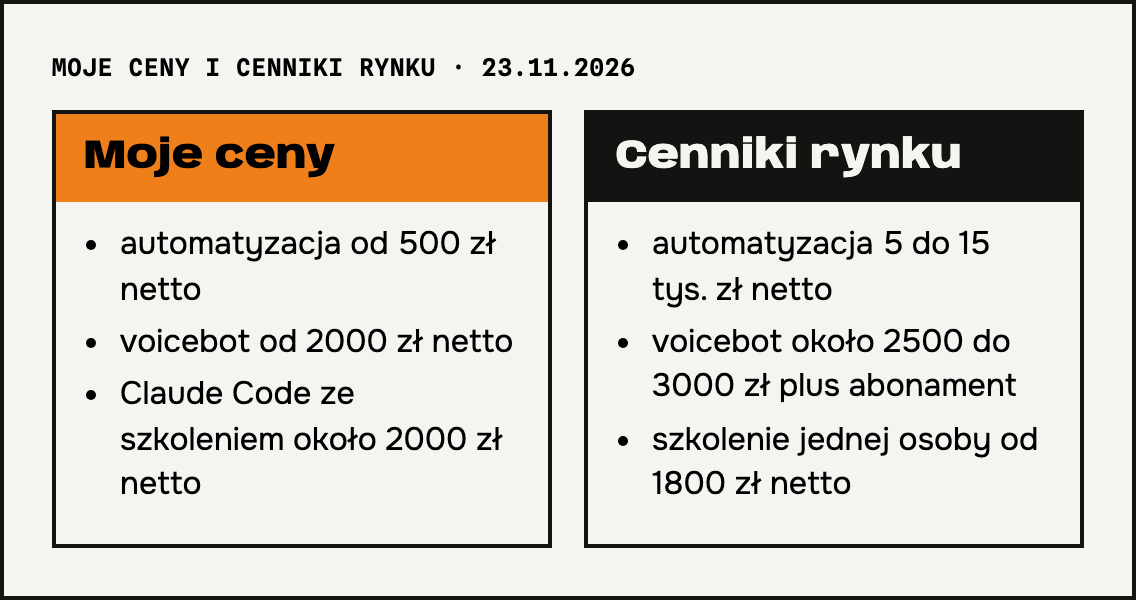
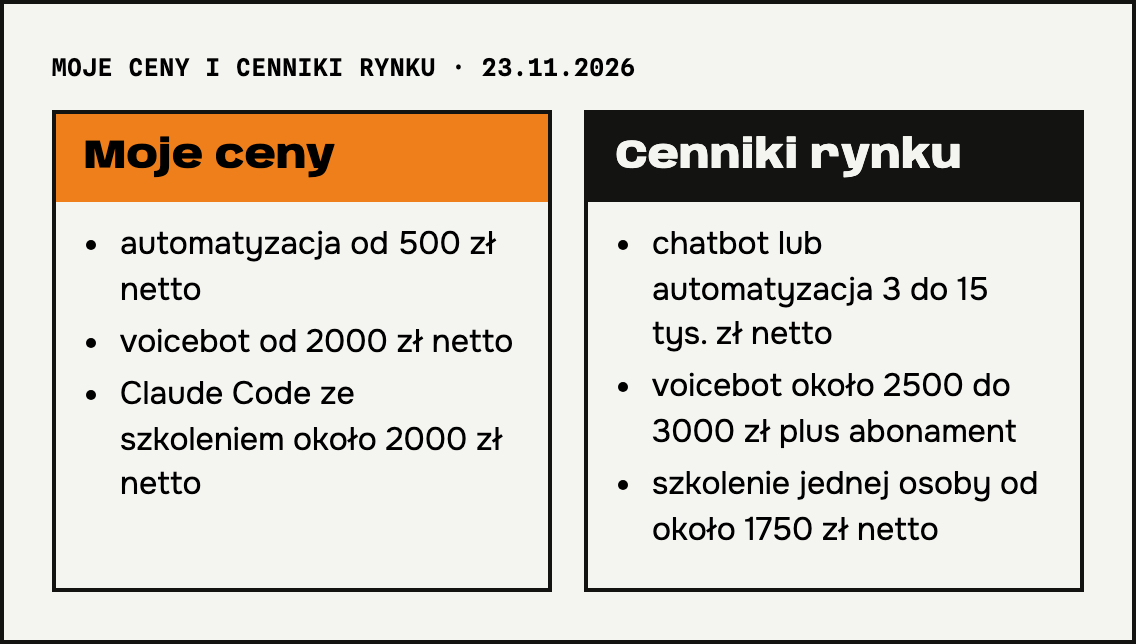
fix: poprawki po przeglądzie kodu (ceny rynku, fakty o kosztach, FAQ wizytówki)

diff --git a/docs/blog-szkice/podglad/koszt-wdrozenia-ai-en.html b/docs/blog-szkice/podglad/koszt-wdrozenia-ai-en.html
@@ -36,7 +36,7 @@
 
 <figure class="graf" id="g2"><div class="et">My prices and market price lists · Nov. 23, 2026</div>
 <div class="kol"><section class="tak"><h3>My prices</h3><ul><li>automation from PLN 500 plus VAT</li><li>voice agent from PLN 2,000 plus VAT</li><li>Claude Code with training about PLN 2,000 plus VAT</li></ul></section>
-<section class="nie"><h3>Market price lists</h3><ul><li>automation PLN 5 to 15 thousand plus VAT</li><li>voice agent about PLN 2,500 to 3,000 plus a subscription</li><li>training for one person from PLN 1,800 plus VAT</li></ul></section></div></figure>
+<section class="nie"><h3>Market price lists</h3><ul><li>chatbot or automation PLN 3 to 15 thousand plus VAT</li><li>voice agent about PLN 2,500 to 3,000 plus a subscription</li><li>training for one person from about PLN 1,750 plus VAT</li></ul></section></div></figure>
 
 <svg id="mini" class="mini" xmlns="http://www.w3.org/2000/svg" viewBox="0 0 480 270"><rect width="480" height="270" fill="#EF7F1A"/>
 <text x="28" y="44" font-family="Spline Sans Mono" font-weight="600" font-size="14" fill="#131412">AI IMPLEMENTATION COST</text>

diff --git a/testy/jednostkowe/uslugi.test.ts b/testy/jednostkowe/uslugi.test.ts
@@ -5,7 +5,7 @@ import { uslugi, ustawienia } from '../../src/lib/schematy';
 import { rozdziel } from '../../src/lib/frontmatter';
 import { zbudujPary, wczytajFiksture } from '../../src/lib/tresc';
 import { adresOdpowiednika } from '../../src/lib/jezyki';
-import { adresUslugi, bezPogrubienia, czesciPogrubienia, ulozUslugi } from '../../src/lib/uslugi';
+import { adresUslugi, czesciPogrubienia, ulozUslugi } from '../../src/lib/uslugi';
 
 const F = join(import.meta.dirname, '../fikstury/jezyki');
 const dane = (sciezka: string) => rozdziel(readFileSync(join(F, sciezka), 'utf8')).dane as Record<string, any>;
@@ -72,10 +72,6 @@ describe('pogrubienie **…** w polach usługi', () => {
       { tekst: ' i opisz', pogrubione: false },
     ]);
     expect(czesciPogrubienia('bez pogrubienia')).toEqual([{ tekst: 'bez pogrubienia', pogrubione: false }]);
-  });
-  it('usuwa gwiazdki do meta, JSON-LD i kart', () => {
-    expect(bezPogrubienia('**Wdrożenie AI w firmie** zaczynam od procesu')).toBe('Wdrożenie AI w firmie zaczynam od procesu');
-    expect(bezPogrubienia('a * b')).toBe('a * b');
   });
 });
 

diff --git a/docs/blog-szkice/podglad/koszt-wdrozenia-ai.html b/docs/blog-szkice/podglad/koszt-wdrozenia-ai.html
@@ -36,7 +36,7 @@
 
 <figure class="graf" id="g2"><div class="et">Moje ceny i cenniki rynku · 23.11.2026</div>
 <div class="kol"><section class="tak"><h3>Moje ceny</h3><ul><li>automatyzacja od 500 zł netto</li><li>voicebot od 2000 zł netto</li><li>Claude Code ze szkoleniem około 2000 zł netto</li></ul></section>
-<section class="nie"><h3>Cenniki rynku</h3><ul><li>automatyzacja 5 do 15 tys. zł netto</li><li>voicebot około 2500 do 3000 zł plus abonament</li><li>szkolenie jednej osoby od 1800 zł netto</li></ul></section></div></figure>
+<section class="nie"><h3>Cenniki rynku</h3><ul><li>chatbot lub automatyzacja 3 do 15 tys. zł netto</li><li>voicebot około 2500 do 3000 zł plus abonament</li><li>szkolenie jednej osoby od około 1750 zł netto</li></ul></section></div></figure>
 
 <svg id="mini" class="mini" xmlns="http://www.w3.org/2000/svg" viewBox="0 0 480 270"><rect width="480" height="270" fill="#EF7F1A"/>
 <text x="28" y="44" font-family="Spline Sans Mono" font-weight="600" font-size="14" fill="#131412">KOSZT WDROŻENIA AI</text>

diff --git a/src/lib/uslugi.ts b/src/lib/uslugi.ts
@@ -6,9 +6,6 @@ export function czesciPogrubienia(t: string): { tekst: string; pogrubione: boole
   return t.split(/\*\*(.+?)\*\*/).map((tekst, i) => ({ tekst, pogrubione: i % 2 === 1 })).filter((c) => c.tekst !== '');
 }
 
-/** Tekst bez `**` do meta, JSON-LD i kart. */
-export const bezPogrubienia = (t: string) => t.replace(/\*\*(.+?)\*\*/g, '$1');
-
 /** Początek adresu stron usług w danym języku. */
 export const prefiksUslug = (jezyk: Jezyk) => (jezyk === 'pl' ? '/uslugi/' : '/en/services/');
 

diff --git a/src/lib/wpisy.ts b/src/lib/wpisy.ts
@@ -17,7 +17,7 @@ const OBRAZY: Obrazy = import.meta.env.OBRAZY_Z_FIKSTUR
 
 export async function obraz(plik: string, wpis: string) {
   const wczytaj = OBRAZY[plik];
-  if (!wczytaj) throw new Error(`Wpis ${wpis}: nie znaleziono zdjęcia ${plik}. Sprawdź pole plik w zdjęciach albo w miniaturze.`);
+  if (!wczytaj) throw new Error(`Strona ${wpis}: nie znaleziono zdjęcia ${plik}. Sprawdź pole plik w zdjęciach albo w miniaturze.`);
   return (await wczytaj()).default;
 }
 

diff --git a/src/content/wpisy/ile-kosztuje-wdrozenie-ai/en.md b/src/content/wpisy/ile-kosztuje-wdrozenie-ai/en.md
@@ -1,12 +1,12 @@
 ---
 tytul: "AI implementation cost for small business"
 data: 2026-11-23
-zajawka: "AI implementation cost: a simple automation from PLN 500 plus VAT, a voice agent from PLN 2,000. See what raises the price and what you pay monthly."
+zajawka: "AI implementation cost: a simple automation from PLN 500 plus VAT, a voice agent from PLN 2,000 plus VAT. See what raises the price and monthly costs."
 miniatura:
   plik: "/src/assets/wpisy/ile-kosztuje-wdrozenie-ai-en-miniatura.png"
-  alt: "From PLN 500 plus VAT for a simple automation and a voice agent from PLN 2,000 on an orange background"
+  alt: "From PLN 500 plus VAT for a simple automation and a voice agent from PLN 2,000 plus VAT on an orange background"
 tlumaczenie: ai
-zrodlo: 74dbecf320ac7d9764081902b32303e2d3085b8fe3ecfb66be9575e26cc3903a
+zrodlo: d849cd1e7050b7ce67fb98ca0f822cdcdd20062574d14fb95cacabb181138097
 adresEn: "ai-implementation-cost"
 ---
 **How much AI implementation costs** is the question I hear from small business owners before we even talk about their process. I answer with numbers from my own projects: a simple automation starts at PLN 500 plus VAT, and a voice agent starts at PLN 2,000 plus VAT. See what the price depends on and which costs remain after launch, then email me about what you want to automate.
@@ -33,7 +33,7 @@ Before I pick a tool, I check how the work looks today. Often it's enough to lay
 
 ## Costs that remain after launch
 
-Some tools cost money every month, and those fees go to the client's accounts, not mine. For a voice agent, that's about USD 20 a month for ElevenLabs, depending on the number of calls. The client tops up the phone number account themselves when they get a low-balance notification. I write more about the bot itself on the [AI voice agents](/en/services/ai-voice-agents/) page.
+Some tools cost money every month. For a voice agent, that's about USD 20 a month for ElevenLabs, depending on the number of calls, and ElevenLabs and Twilio run on the client's accounts, not mine. The client tops up the phone number account themselves when they get a low-balance notification. I write more about the bot itself on the [AI voice agents](/en/services/ai-voice-agents/) page.
 
 I run complex automations that have to work all the time in n8n on a self-hosted server. It comes out cheaper than a Make subscription, where you pay for every operation in a scenario.
 
@@ -43,7 +43,7 @@ I run complex automations that have to work all the time in n8n on a self-hosted
 
 ## My prices compared with the market
 
-On Nov. 23, 2026, I checked the price lists that Google shows in AI answers to questions about cost. Implementation firms usually list a single automation at PLN 5 to 15 thousand plus VAT, and AI implementation with integrations from PLN 8,000 up. For a voice agent, starter packages cost about PLN 2,500 to 3,000 for setup, plus PLN 299 to 1,500 a month for maintenance. Claude Code training for one person starts at PLN 1,800 plus VAT in these price lists.
+On Nov. 23, 2026, I checked the price lists that Google shows in AI answers to questions about cost. Implementation firms usually list a simple chatbot or a single automation at PLN 3 to 15 thousand plus VAT, and AI implementation with integrations from PLN 8,000 up. For a voice agent, starter packages cost about PLN 2,500 to 3,000 for setup, plus PLN 299 to 1,500 a month for maintenance. Claude Code training for one person starts at about PLN 1,750 plus VAT in these price lists.
 
 Compare the scope, not just the amount. I give the price of the simplest version, and I quote a larger project separately, after we talk about your process and the software you use.
 
@@ -59,7 +59,7 @@ Net. VAT is added to every amount in this post.
 A simple automation runs after about 3 days. A voice agent goes through its first tests at the client's company after 2 weeks.
 
 ### Do I pay every month after implementation?
-It depends on the tool. For a voice agent, you pay about USD 20 for ElevenLabs plus phone number top-ups, and n8n on a self-hosted server costs as much as that server.
+It depends on the tool. For a voice agent, you pay about USD 20 for ElevenLabs plus phone number top-ups. Complex automations in self-hosted n8n come out cheaper than a Make subscription.
 
 ### How much does Claude Code training cost?
 About PLN 2,000 plus VAT, together with setup at the client's company. I set up the tool and train the team to work with it.

diff --git a/src/content/wpisy/ile-kosztuje-wdrozenie-ai/pl.md b/src/content/wpisy/ile-kosztuje-wdrozenie-ai/pl.md
@@ -4,7 +4,7 @@ data: 2026-11-23
 zajawka: "Ile kosztuje wdrożenie AI: prosta automatyzacja od 500 zł netto, voicebot od 2000 zł netto. Sprawdź, co podnosi cenę i co płacisz co miesiąc."
 miniatura:
   plik: "/src/assets/wpisy/ile-kosztuje-wdrozenie-ai-miniatura.png"
-  alt: "Napis od 500 zł netto za prostą automatyzację i voicebot od 2000 zł na pomarańczowym tle"
+  alt: "Napis od 500 zł netto za prostą automatyzację i voicebot od 2000 zł netto na pomarańczowym tle"
 ---
 **Ile kosztuje wdrożenie AI** to pytanie, które słyszę od właścicieli małych firm jeszcze przed pierwszą rozmową o procesie. Odpowiadam kwotami z moich wdrożeń: prosta automatyzacja zaczyna się od 500 zł netto, a voicebot od 2000 zł netto. Sprawdź, od czego zależy cena i jakie koszty zostają po uruchomieniu, a potem napisz do mnie, co chcesz zautomatyzować.
 
@@ -30,7 +30,7 @@ Zanim dobiorę narzędzie, sprawdzam, jak praca wygląda dziś. Często wystarcz
 
 ## Koszty, które zostają po uruchomieniu
 
-Część narzędzi kosztuje co miesiąc, a te opłaty idą na konta klienta, nie na moje. Przy voicebocie to około 20 dolarów miesięcznie za ElevenLabs, zależnie od liczby rozmów. Konto z numerem telefonu klient doładowuje sam, gdy dostanie powiadomienie o końcu środków. Więcej o samym bocie piszę na stronie [voiceboty dla firm](/uslugi/voiceboty/).
+Część narzędzi kosztuje co miesiąc. Przy voicebocie to około 20 dolarów miesięcznie za ElevenLabs, zależnie od liczby rozmów, a ElevenLabs i Twilio działają na kontach klienta, nie na moich. Konto z numerem telefonu klient doładowuje sam, gdy dostanie powiadomienie o końcu środków. Więcej o samym bocie piszę na stronie [voiceboty dla firm](/uslugi/voiceboty/).
 
 Rozbudowane automatyzacje, które muszą działać cały czas, stawiam w n8n na własnym serwerze. Wychodzi to taniej niż subskrypcja Make, w której płacisz za każdą operację w scenariuszu.
 
@@ -40,7 +40,7 @@ Rozbudowane automatyzacje, które muszą działać cały czas, stawiam w n8n na 
 
 ## Moje ceny na tle cenników rynku
 
-Sprawdziłem 23 listopada 2026 cenniki, które Google pokazuje w odpowiedziach AI na pytania o koszt. Firmy wdrożeniowe podają za pojedynczą automatyzację zwykle od 5 do 15 tys. zł netto, a za wdrożenie AI z integracjami od 8000 zł wzwyż. Za voicebota pakiety startowe kosztują około 2500 do 3000 zł za wdrożenie, a do tego od 299 do 1500 zł miesięcznie za utrzymanie. Szkolenie z Claude Code dla jednej osoby zaczyna się w cennikach od 1800 zł netto.
+Sprawdziłem 23 listopada 2026 cenniki, które Google pokazuje w odpowiedziach AI na pytania o koszt. Firmy wdrożeniowe podają za prostego chatbota albo pojedynczą automatyzację zwykle od 3 do 15 tys. zł netto, a za wdrożenie AI z integracjami od 8000 zł wzwyż. Za voicebota pakiety startowe kosztują około 2500 do 3000 zł za wdrożenie, a do tego od 299 do 1500 zł miesięcznie za utrzymanie. Szkolenie z Claude Code dla jednej osoby zaczyna się w cennikach od około 1750 zł netto.
 
 Porównuj zakres, a nie samą kwotę. Ja podaję cenę najprostszej wersji, a większy projekt wyceniam osobno, po rozmowie o Twoim procesie i programach, z których korzystasz.
 
@@ -56,7 +56,7 @@ Netto. Do każdej kwoty z tego wpisu dochodzi VAT.
 Prosta automatyzacja działa po około 3 dniach. Voicebot przechodzi pierwsze testy u klienta po 2 tygodniach.
 
 ### Czy po wdrożeniu płacę co miesiąc?
-Zależy od narzędzia. Przy voicebocie płacisz około 20 dolarów za ElevenLabs i doładowania numeru, a n8n na własnym serwerze kosztuje tyle, co ten serwer.
+Zależy od narzędzia. Przy voicebocie płacisz około 20 dolarów za ElevenLabs i doładowania numeru. Rozbudowane automatyzacje w n8n na własnym serwerze wychodzą taniej niż subskrypcja Make.
 
 ### Ile kosztuje szkolenie z Claude Code?
 Około 2000 zł netto razem z wdrożeniem u klienta. Wdrażam narzędzie i szkolę zespół z pracy z nim.

diff --git a/CHANGELOG.md b/CHANGELOG.md
@@ -1,3 +1,11 @@
+## 2026-11-23 19:20, Claude Code
+
+**✅ Zrobione:** poprawki po `/code-review` (medium, 8 uwag): ceny rynku we wpisie zgodne ze źródłami (chatbot lub automatyzacja 3 do 15 tys. zł, szkolenie od około 1750 zł; grafika 2 PL i EN); opłaty na kontach klienta i koszt n8n tylko tam, gdzie są potwierdzone; „netto”/„plus VAT” przy voicebocie w zajawce i alt; FAQ strony usług „Ile kosztuje strona wizytówka?” zamiast „strona WordPress” (fraza dodatkowa do kontroli: „sklep WooCommerce”, EN `ai`); `ceny-uslug.md` bez nieaktualnego punktu o 1000 zł (sprawa zamknięta decyzją Roberta); komunikat `obraz()` „Strona …” zamiast „Wpis …”; usunięta nieużywana `bezPogrubienia`. `npm run sprawdz`: 248 testów, 192 e2e, 23 pary tłumaczeń OK.
+
+**🚧 W toku / nie wdrożone:** uwaga 2 z przeglądu czeka na Roberta: czy cena rośnie z liczbą scenariuszy rozmów i integracji (voicebot) oraz kroków i systemów (automatyzacja).
+
+**🎯 Następny krok:** odpowiedź Roberta na uwagę 2, przegląd poprawek, PR.
+
 ## 2026-11-23 19:00, Claude Code
 
 **✅ Zrobione:** wpis o kosztach AI (PL, EN, grafika 2 w obu językach): bez nazw firm konkurencji (decyzja Roberta); ceny rynku opisane ogólnie jako cenniki firm wdrożeniowych, zakresy zgodne ze źródłami w `docs/seo/pomiar-ai.md` (utrzymanie voicebota 299 do 1500 zł/mies., wdrożenie z integracjami od 8000 zł). DNK OK bez uwag, kontrola tłumaczenia OK, build OK.

diff --git a/src/content/uslugi/strony-i-aplikacje/en.md b/src/content/uslugi/strony-i-aplikacje/en.md
@@ -91,7 +91,7 @@ faq:
   pozycje:
     - pytanie: "When does an app instead of off-the-shelf software make sense?"
       odpowiedz: "When off-the-shelf software falls short or costs too much. A training company handled sign-ups and schedules in Airtable, and every change meant edits in several places. Now each trainer sees her calendar in one app."
-    - pytanie: "How much does a WordPress website cost?"
+    - pytanie: "How much does a brochure website cost?"
       odpowiedz: "From PLN 800 plus VAT for a brochure website with 4 to 5 subpages, built in about 4 days, without graphic design or SEO setup. More subpages and a more complex build raise the price. If you don't have your own content or design, I'll prepare SEO content and a graphic design as part of the quote."
     - pytanie: "How much does a WooCommerce store cost?"
       odpowiedz: "I quote that individually too. The scope depends on what the store has to do: for example discounted prices for businesses, an account with order history, or pulling orders into the accounting software."
@@ -104,6 +104,6 @@ faq:
 wezwanie: "**Email me: office@robert-debicki.pl** with the website or app you need, and I'll prepare a quote."
 kolejnosc: 2
 adresEn: "websites-and-apps"
-tlumaczenie: sprawdzone
-zrodlo: 136e773b730e99d06dc2a1781c301e0ed0490478f640c3a213184a3a86542252
+tlumaczenie: ai
+zrodlo: 10ef89e40ec5ef06761a47af940a805a192bdd331d79c7e1d772df148450548e
 ---

diff --git a/src/content/uslugi/strony-i-aplikacje/pl.md b/src/content/uslugi/strony-i-aplikacje/pl.md
@@ -91,7 +91,7 @@ faq:
   pozycje:
     - pytanie: "Kiedy aplikacja zamiast programu z półki ma sens?"
       odpowiedz: "Gdy program z półki nie spełnia oczekiwań albo jest za drogi. Firma szkoleniowa prowadziła zapisy i grafiki w Airtable, a każda zmiana oznaczała poprawki w kilku miejscach. Teraz każda trenerka widzi swój kalendarz w jednej aplikacji."
-    - pytanie: "Ile kosztuje strona WordPress?"
+    - pytanie: "Ile kosztuje strona wizytówka?"
       odpowiedz: "Od 800 zł netto za stronę wizytówkę z 4 do 5 podstron, wykonaną w około 4 dni, bez projektu graficznego i ustawień SEO. Więcej podstron i bardziej złożona budowa podnoszą cenę. Gdy nie masz własnych treści albo projektu, przygotuję treści pod SEO i projekt graficzny w ramach wyceny."
     - pytanie: "Ile kosztuje sklep WooCommerce?"
       odpowiedz: "Też wyceniam indywidualnie. Zakres zależy od tego, co sklep ma robić: na przykład ceny po rabacie dla firm, konto z historią zamówień albo pobieranie zamówień do programu księgowego."

diff --git a/docs/seo/ceny-uslug.md b/docs/seo/ceny-uslug.md
@@ -12,6 +12,6 @@ Koszt miesięczny voicebota (Robert, 23.11.2026): około 20 USD za ElevenLabs, z
 
 Sklep WooCommerce i aplikacje: bez kwoty, wycena według zakresu (Robert, 23.11.2026).
 
-Do wyjaśnienia: opis strony „strony i aplikacje” mówi „Prosty landing page to około 1000 zł plus VAT”. Wizytówka od 800 zł jest tańsza od landing page. Robert decyduje, czy to się zgadza.
+Opis strony „strony i aplikacje”: „Strona wizytówka od 800 zł plus VAT” zamiast dawnego „landing page około 1000 zł” (decyzja Roberta 23.11.2026).
 
 Wdrożenie Claude Code u klienta ze szkoleniem zespołu: około 2000 zł netto (Robert, 23.11.2026). Na stronie AI i automatyzacja: karta i FAQ.
